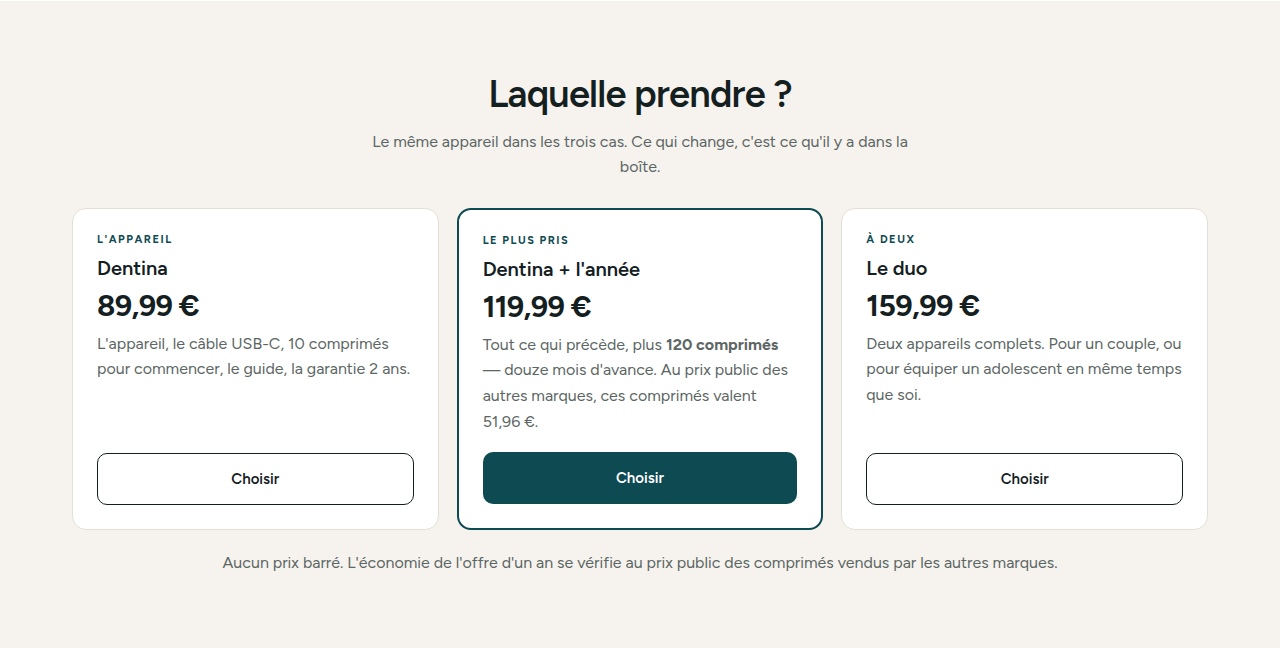
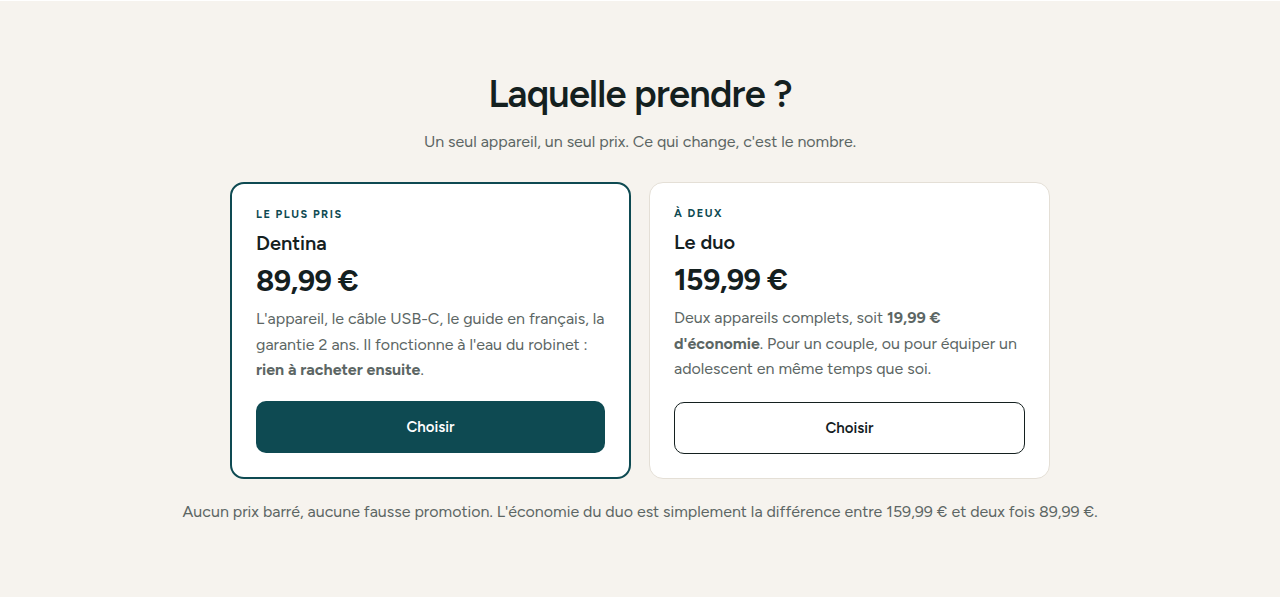
Retrait des comprimés : un seul produit physique
Les comprimés venaient de la section 48 du dossier de l'utilisateur et du
catalogue de Zima, pas d'une décision de sa part — et j'avais bâti l'offre
à 119,99 EUR dessus sans signaler qu'elle reposait sur un deuxième produit
à sourcer, avec son propre fournisseur et son propre statut réglementaire.

Recalcul : sans comprimés, le chemin vers 1 M EUR donne 564 399 EUR de
contribution contre 555 463 EUR avec, pour un seul produit physique au
lieu de deux. Panier moyen plus bas, marge par commande plus faible, mais
un produit de moins à gérer et un argument de vente en plus — rien à
racheter, il fonctionne à l'eau du robinet.

Clôture ramenée à deux paliers, 89,99 et 159,99 EUR. La FAQ sur les
comprimés devient « faut-il acheter un produit en plus ? » et la réponse
est non. Le bump numérique à 19,99 EUR reste, il ne demande aucun
sourcing.

Huit cas remesurés, conformes.

Claude-Session: https://claude.ai/code/session_0148pnnc1XRhmJX1xkfRivfj

diff --git a/tools/rendu/lyra/dentina-produit.html b/tools/rendu/lyra/dentina-produit.html
@@ -291,7 +291,7 @@ a{color:inherit}
 
 /* clôture d'offre — remplace « À découvrir aussi » sur une boutique monoproduit */
 .offres3{display:grid;gap:14px;margin-top:28px;text-align:left}
-@media(min-width:880px){.offres3{grid-template-columns:repeat(3,1fr);gap:18px;align-items:stretch}}
+@media(min-width:880px){.offres3{grid-template-columns:repeat(2,1fr);gap:18px;align-items:stretch;max-width:820px;margin-inline:auto}}
 .ocarte{background:var(--fond);border:1px solid var(--filet);border-radius:var(--r);padding:24px;display:flex;flex-direction:column}
 .ocarte--star{border:2px solid var(--marine)}
 .otag{font:700 11px/1.2 var(--sans);letter-spacing:.14em;text-transform:uppercase;color:var(--marine)}
@@ -367,7 +367,7 @@ a{color:inherit}
       <details><summary>Livraison et retours</summary><p class="rep">Expédition depuis la France, délai réel affiché au panier. 30 jours pour changer d'avis, retour pris en charge, remboursement intégral.</p></details>
       <details><summary>Comment ça fonctionne</summary><p class="rep">Un transducteur fait vibrer l'eau à très haute fréquence. Les micro-bulles ainsi formées atteignent les reliefs où les poils d'une brosse n'entrent pas, et décollent les dépôts mécaniquement.</p></details>
       <details><summary>Caractéristiques techniques</summary><p class="rep"><span class="apr">À confirmer par le fournisseur</span> — fréquence, capacité utile de la cuve, dimensions internes exactes, autonomie, matériau de cuve. Publiées ici, chiffre par chiffre.</p></details>
-      <details><summary>Ce qui est inclus</summary><p class="rep">L'appareil, le câble USB-C, 10 comprimés pour commencer, le guide en français, la garantie 2 ans.</p></details>
+      <details><summary>Ce qui est inclus</summary><p class="rep">L'appareil, le câble USB-C, le guide en français et la garantie 2 ans. Rien d'autre à acheter&nbsp;: il fonctionne à l'eau du robinet.</p></details>
     </div>
   </div>
 </div></section>
@@ -427,7 +427,7 @@ a{color:inherit}
     <h2 class="h2">Des questions&nbsp;?<br>Nous avons les réponses.</h2>
     <div class="acc">
       <details><summary>Dois-je continuer à brosser ma gouttière&nbsp;?</summary><p class="rep">Oui. Les recommandations professionnelles conseillent un brossage quotidien avec une brosse dédiée. L'ultrason ne le remplace pas — il atteint ce que la brosse n'atteint pas.</p></details>
-      <details><summary>Ai-je besoin des comprimés&nbsp;?</summary><p class="rep">Non pour l'entretien quotidien, où l'eau suffit. Ils servent au nettoyage en profondeur et sur les dépôts anciens. Dix sont fournis pour commencer.</p></details>
+      <details><summary>Faut-il acheter un produit en plus&nbsp;?</summary><p class="rep">Non. De l'eau du robinet suffit, et il n'y a aucune recharge à racheter. C'est le seul coût du produit&nbsp;: celui de l'appareil.</p></details>
       <details><summary>Est-ce que ça enlève les taches installées&nbsp;?</summary><p class="rep">Cela dépend de leur ancienneté. Plusieurs cycles sont parfois nécessaires, et certaines marques ne partent pas. Nous ne promettons pas un appareil neuf.</p></details>
       <details><summary>Mon dentier complet rentre-t-il dedans&nbsp;?</summary><p class="rep"><span class="apr">Dimensions à publier</span> — nous donnerons les cotes internes exactes plutôt qu'un « compatible avec tous les dentiers » que personne ne peut vérifier.</p></details>
       <details><summary>Est-ce bruyant&nbsp;?</summary><p class="rep"><span class="apr">Niveau à mesurer</span> — un appareil à ultrasons émet un bourdonnement aigu. Annoncer le silence serait faux ; nous publierons le relevé.</p></details>
@@ -460,34 +460,27 @@ a{color:inherit}
 <!-- ═══ A — ACTION : la clôture. Dernière section avant le pied. ═══ -->
 <section class="sec" style="background:var(--creme)" id="offres"><div class="wrap centre">
   <h2 class="h2">Laquelle prendre&nbsp;?</h2>
-  <p class="lg" style="margin-top:12px;max-width:56ch;margin-inline:auto">Le même appareil dans les trois cas.
-    Ce qui change, c'est ce qu'il y a dans la boîte.</p>
+  <p class="lg" style="margin-top:12px;max-width:56ch;margin-inline:auto">Un seul appareil, un seul prix. Ce qui change, c'est le nombre.</p>
   <div class="offres3">
-    <div class="ocarte">
-      <span class="otag">L'appareil</span>
-      <p class="onom">Dentina</p>
-      <p class="oprix">89,99&nbsp;€</p>
-      <p class="odet">L'appareil, le câble USB-C, 10 comprimés pour commencer, le guide, la garantie 2 ans.</p>
-      <a class="btn btn--bloc btn--ligne" href="#">Choisir</a>
-    </div>
     <div class="ocarte ocarte--star">
       <span class="otag">Le plus pris</span>
-      <p class="onom">Dentina + l'année</p>
-      <p class="oprix">119,99&nbsp;€</p>
-      <p class="odet">Tout ce qui précède, plus <b>120 comprimés</b> — douze mois d'avance.
-        Au prix public des autres marques, ces comprimés valent 51,96&nbsp;€.</p>
+      <p class="onom">Dentina</p>
+      <p class="oprix">89,99&nbsp;€</p>
+      <p class="odet">L'appareil, le câble USB-C, le guide en français, la garantie 2 ans.
+        Il fonctionne à l'eau du robinet&nbsp;: <b>rien à racheter ensuite</b>.</p>
       <a class="btn btn--bloc" href="#">Choisir</a>
     </div>
     <div class="ocarte">
       <span class="otag">À deux</span>
       <p class="onom">Le duo</p>
       <p class="oprix">159,99&nbsp;€</p>
-      <p class="odet">Deux appareils complets. Pour un couple, ou pour équiper un adolescent en même temps que soi.</p>
+      <p class="odet">Deux appareils complets, soit <b>19,99&nbsp;€ d'économie</b>. Pour un couple,
+        ou pour équiper un adolescent en même temps que soi.</p>
       <a class="btn btn--bloc btn--ligne" href="#">Choisir</a>
     </div>
   </div>
-  <p class="lg" style="margin-top:20px">Aucun prix barré. L'économie de l'offre d'un an se vérifie au prix
-    public des comprimés vendus par les autres marques.</p>
+  <p class="lg" style="margin-top:20px">Aucun prix barré, aucune fausse promotion. L'économie du duo est simplement
+    la différence entre 159,99&nbsp;€ et deux fois 89,99&nbsp;€.</p>
 </div></section>
 
 <footer class="pied"><div class="wrap">

diff --git a/tools/rendu/lyra/produit.html b/tools/rendu/lyra/produit.html
@@ -60,7 +60,7 @@
       <details><summary>Livraison et retours</summary><p class="rep">Expédition depuis la France, délai réel affiché au panier. 30 jours pour changer d'avis, retour pris en charge, remboursement intégral.</p></details>
       <details><summary>Comment ça fonctionne</summary><p class="rep">Un transducteur fait vibrer l'eau à très haute fréquence. Les micro-bulles ainsi formées atteignent les reliefs où les poils d'une brosse n'entrent pas, et décollent les dépôts mécaniquement.</p></details>
       <details><summary>Caractéristiques techniques</summary><p class="rep"><span class="apr">À confirmer par le fournisseur</span> — fréquence, capacité utile de la cuve, dimensions internes exactes, autonomie, matériau de cuve. Publiées ici, chiffre par chiffre.</p></details>
-      <details><summary>Ce qui est inclus</summary><p class="rep">L'appareil, le câble USB-C, 10 comprimés pour commencer, le guide en français, la garantie 2 ans.</p></details>
+      <details><summary>Ce qui est inclus</summary><p class="rep">L'appareil, le câble USB-C, le guide en français et la garantie 2 ans. Rien d'autre à acheter&nbsp;: il fonctionne à l'eau du robinet.</p></details>
     </div>
   </div>
 </div></section>
@@ -120,7 +120,7 @@
     <h2 class="h2">Des questions&nbsp;?<br>Nous avons les réponses.</h2>
     <div class="acc">
       <details><summary>Dois-je continuer à brosser ma gouttière&nbsp;?</summary><p class="rep">Oui. Les recommandations professionnelles conseillent un brossage quotidien avec une brosse dédiée. L'ultrason ne le remplace pas — il atteint ce que la brosse n'atteint pas.</p></details>
-      <details><summary>Ai-je besoin des comprimés&nbsp;?</summary><p class="rep">Non pour l'entretien quotidien, où l'eau suffit. Ils servent au nettoyage en profondeur et sur les dépôts anciens. Dix sont fournis pour commencer.</p></details>
+      <details><summary>Faut-il acheter un produit en plus&nbsp;?</summary><p class="rep">Non. De l'eau du robinet suffit, et il n'y a aucune recharge à racheter. C'est le seul coût du produit&nbsp;: celui de l'appareil.</p></details>
       <details><summary>Est-ce que ça enlève les taches installées&nbsp;?</summary><p class="rep">Cela dépend de leur ancienneté. Plusieurs cycles sont parfois nécessaires, et certaines marques ne partent pas. Nous ne promettons pas un appareil neuf.</p></details>
       <details><summary>Mon dentier complet rentre-t-il dedans&nbsp;?</summary><p class="rep"><span class="apr">Dimensions à publier</span> — nous donnerons les cotes internes exactes plutôt qu'un « compatible avec tous les dentiers » que personne ne peut vérifier.</p></details>
       <details><summary>Est-ce bruyant&nbsp;?</summary><p class="rep"><span class="apr">Niveau à mesurer</span> — un appareil à ultrasons émet un bourdonnement aigu. Annoncer le silence serait faux ; nous publierons le relevé.</p></details>
@@ -153,34 +153,27 @@
 <!-- ═══ A — ACTION : la clôture. Dernière section avant le pied. ═══ -->
 <section class="sec" style="background:var(--creme)" id="offres"><div class="wrap centre">
   <h2 class="h2">Laquelle prendre&nbsp;?</h2>
-  <p class="lg" style="margin-top:12px;max-width:56ch;margin-inline:auto">Le même appareil dans les trois cas.
-    Ce qui change, c'est ce qu'il y a dans la boîte.</p>
+  <p class="lg" style="margin-top:12px;max-width:56ch;margin-inline:auto">Un seul appareil, un seul prix. Ce qui change, c'est le nombre.</p>
   <div class="offres3">
-    <div class="ocarte">
-      <span class="otag">L'appareil</span>
-      <p class="onom">Dentina</p>
-      <p class="oprix">89,99&nbsp;€</p>
-      <p class="odet">L'appareil, le câble USB-C, 10 comprimés pour commencer, le guide, la garantie 2 ans.</p>
-      <a class="btn btn--bloc btn--ligne" href="#">Choisir</a>
-    </div>
     <div class="ocarte ocarte--star">
       <span class="otag">Le plus pris</span>
-      <p class="onom">Dentina + l'année</p>
-      <p class="oprix">119,99&nbsp;€</p>
-      <p class="odet">Tout ce qui précède, plus <b>120 comprimés</b> — douze mois d'avance.
-        Au prix public des autres marques, ces comprimés valent 51,96&nbsp;€.</p>
+      <p class="onom">Dentina</p>
+      <p class="oprix">89,99&nbsp;€</p>
+      <p class="odet">L'appareil, le câble USB-C, le guide en français, la garantie 2 ans.
+        Il fonctionne à l'eau du robinet&nbsp;: <b>rien à racheter ensuite</b>.</p>
       <a class="btn btn--bloc" href="#">Choisir</a>
     </div>
     <div class="ocarte">
       <span class="otag">À deux</span>
       <p class="onom">Le duo</p>
       <p class="oprix">159,99&nbsp;€</p>
-      <p class="odet">Deux appareils complets. Pour un couple, ou pour équiper un adolescent en même temps que soi.</p>
+      <p class="odet">Deux appareils complets, soit <b>19,99&nbsp;€ d'économie</b>. Pour un couple,
+        ou pour équiper un adolescent en même temps que soi.</p>
       <a class="btn btn--bloc btn--ligne" href="#">Choisir</a>
     </div>
   </div>
-  <p class="lg" style="margin-top:20px">Aucun prix barré. L'économie de l'offre d'un an se vérifie au prix
-    public des comprimés vendus par les autres marques.</p>
+  <p class="lg" style="margin-top:20px">Aucun prix barré, aucune fausse promotion. L'économie du duo est simplement
+    la différence entre 159,99&nbsp;€ et deux fois 89,99&nbsp;€.</p>
 </div></section>
 
 <footer class="pied"><div class="wrap">

diff --git a/tools/rendu/lyra/commun.css b/tools/rendu/lyra/commun.css
@@ -197,7 +197,7 @@ a{color:inherit}
 
 /* clôture d'offre — remplace « À découvrir aussi » sur une boutique monoproduit */
 .offres3{display:grid;gap:14px;margin-top:28px;text-align:left}
-@media(min-width:880px){.offres3{grid-template-columns:repeat(3,1fr);gap:18px;align-items:stretch}}
+@media(min-width:880px){.offres3{grid-template-columns:repeat(2,1fr);gap:18px;align-items:stretch;max-width:820px;margin-inline:auto}}
 .ocarte{background:var(--fond);border:1px solid var(--filet);border-radius:var(--r);padding:24px;display:flex;flex-direction:column}
 .ocarte--star{border:2px solid var(--marine)}
 .otag{font:700 11px/1.2 var(--sans);letter-spacing:.14em;text-transform:uppercase;color:var(--marine)}

diff --git a/tools/rendu/lyra/dentina-accueil.html b/tools/rendu/lyra/dentina-accueil.html
@@ -291,7 +291,7 @@ a{color:inherit}
 
 /* clôture d'offre — remplace « À découvrir aussi » sur une boutique monoproduit */
 .offres3{display:grid;gap:14px;margin-top:28px;text-align:left}
-@media(min-width:880px){.offres3{grid-template-columns:repeat(3,1fr);gap:18px;align-items:stretch}}
+@media(min-width:880px){.offres3{grid-template-columns:repeat(2,1fr);gap:18px;align-items:stretch;max-width:820px;margin-inline:auto}}
 .ocarte{background:var(--fond);border:1px solid var(--filet);border-radius:var(--r);padding:24px;display:flex;flex-direction:column}
 .ocarte--star{border:2px solid var(--marine)}
 .otag{font:700 11px/1.2 var(--sans);letter-spacing:.14em;text-transform:uppercase;color:var(--marine)}
